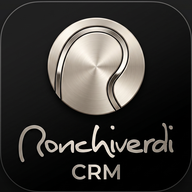
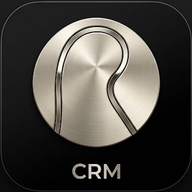
Nuova icona dell'app sulla Home, rigenerabile da script
Il logo cambia: resta il disco metallico, sparisce il lettering
"Ronchiverdi" e sotto il disco resta la sola scritta CRM, su un riquadro
nero con più aria intorno.

Le quattro misure servite nascono dal nuovo master ritagliato sul riquadro
dell'icona: il margine della tavola, dentro la maschera arrotondata di iOS,
diventerebbe un secondo bordo e rimpicciolirebbe il disco. La maskable
tiene il contenuto al 78% perché Android ritaglia in tondo, e a piena
pagina la scritta CRM finirebbe sul bordo del cerchio — verificato che ora
resti dentro la zona sicura con 35 px di margine.

Il ritaglio non è più a mano: scripts/genera-icone.py trova il riquadro
dal salto di luminosità del bordo, scrive i quattro file e ricava il fondo
della maskable dalla striscia scura del margine, non dalla media
dell'immagine — che avrebbe portato dentro il disco metallico e reso il
fondo a bande. Chi cambierà di nuovo l'icona sostituisce il master e
rilancia lo script, invece di ritagliare quattro PNG a occhio.

Il master del logo precedente esce da design/: tenerne due significa, alla
prossima rigenerazione, ritagliare quello sbagliato. Resta nella storia
del repository, al commit ecb1dfa.

Claude-Session: https://claude.ai/code/session_01UDy9jfDg8AQYpr8QYMmQez

diff --git a/app/manifest.ts b/app/manifest.ts
@@ -20,9 +20,10 @@ export default function manifest(): MetadataRoute.Manifest {
     orientation: 'portrait',
     background_color: '#f6f4ec',
     theme_color: '#1c1c18',
-    // Ritagliate da design/icona-crm-2048.jpeg con lo script di quel commit:
-    // la variante maskable è rimpicciolita perché Android ritaglia in tondo e
-    // taglierebbe la scritta "Ronchiverdi CRM".
+    // Ritagliate da design/icona-crm.jpeg con scripts/genera-icone.py: la
+    // variante maskable è rimpicciolita perché Android ritaglia in tondo e
+    // taglierebbe la scritta "CRM". Per cambiare icona si sostituisce il
+    // master e si rilancia lo script, non si ritocca un file di public/.
     icons: [
       {
         src: '/apple-touch-icon.png',

diff --git a/scripts/genera-icone.py b/scripts/genera-icone.py
@@ -1,0 +1,119 @@
+#!/usr/bin/env python3
+"""Rigenera le icone dell'app da design/icona-crm.jpeg.
+
+    pip install Pillow
+    python3 scripts/genera-icone.py
+
+Il master è la tavola dell'icona così com'è stata disegnata: il riquadro nero
+arrotondato su uno sfondo di presentazione, appena più scuro. Lo script ritaglia
+il riquadro e butta via lo sfondo — dentro la maschera arrotondata di iOS quel
+margine diventerebbe un secondo bordo intorno all'icona, e il disco finirebbe
+più piccolo del necessario.
+
+Da qui escono i quattro file dichiarati in app/manifest.ts:
+
+  apple-touch-icon.png   180  l'icona che iOS salva sulla Home
+  icon-192.png           192  Android e la scheda del browser
+  favicon.png            512  manifest e scheda del browser
+  icon-maskable-512.png  512  Android, che ritaglia dentro un cerchio
+
+La maskable è l'unica trattata a parte: Android ritaglia le icone maskable in
+un cerchio inscritto, e a piena pagina la scritta "CRM" in basso ci finirebbe
+fuori. Il contenuto viene quindi rimpicciolito dentro la zona sicura, su un
+fondo che continua la sfumatura del riquadro invece di tagliarlo di netto.
+"""
+
+from pathlib import Path
+
+from PIL import Image
+
+RADICE = Path(__file__).resolve().parent.parent
+MASTER = RADICE / "design" / "icona-crm.jpeg"
+PUBLIC = RADICE / "public"
+
+# Quota del lato occupata dal contenuto nella versione maskable. Android
+# garantisce solo il cerchio inscritto nell'80% centrale: sotto quella soglia
+# la scritta "CRM" resta dentro anche sui lanciatori che ritagliano di più.
+QUOTA_MASKABLE = 0.78
+
+# Salto di luminosità che segna il bordo chiaro del riquadro rispetto allo
+# sfondo della tavola: il ritaglio si cerca da solo, così un master ridisegnato
+# con margini diversi non costringe a rimisurare a mano.
+SALTO_BORDO = 20
+
+
+def bordi(immagine: Image.Image) -> tuple[int, int, int, int]:
+    """Riquadro dell'icona dentro la tavola, come (sinistra, alto, destra, basso)."""
+    grigi = immagine.convert("L")
+    larghezza, altezza = grigi.size
+    px = grigi.load()
+
+    def primo_salto(valori: list[int]) -> int:
+        for i in range(1, len(valori)):
+            if valori[i] - valori[i - 1] >= SALTO_BORDO:
+                return i - 1
+        raise SystemExit("Bordo del riquadro non trovato: il master non ha la cornice attesa.")
+
+    riga = [px[x, altezza // 2] for x in range(larghezza)]
+    colonna = [px[larghezza // 2, y] for y in range(altezza)]
+
+    sinistra = primo_salto(riga)
+    destra = larghezza - 1 - primo_salto(riga[::-1])
+    alto = primo_salto(colonna)
+    basso = altezza - 1 - primo_salto(colonna[::-1])
+    return sinistra, alto, destra, basso
+
+
+def quadra(riquadro: tuple[int, int, int, int], limite: tuple[int, int]) -> tuple[int, int, int, int]:
+    """Allarga il riquadro al quadrato che lo contiene, restando dentro la tavola."""
+    sinistra, alto, destra, basso = riquadro
+    lato = max(destra - sinistra, basso - alto)
+    cx, cy = (sinistra + destra) / 2, (alto + basso) / 2
+    mezzo = lato / 2
+    x0 = max(0, min(round(cx - mezzo), limite[0] - lato))
+    y0 = max(0, min(round(cy - mezzo), limite[1] - lato))
+    return x0, y0, x0 + lato, y0 + lato
+
+
+def sfumatura(icona: Image.Image, lato: int) -> Image.Image:
+    """Fondo della maskable: la stessa sfumatura verticale del riquadro, estesa.
+
+    Un fondo nero piatto stacca sul riquadro, che verso il basso schiarisce
+    appena: sul cerchio ritagliato da Android il salto si vedrebbe.
+
+    Il campione si prende da una striscia del margine sinistro, dove c'è solo
+    il nero del riquadro. Mediando l'immagine intera il disco metallico
+    entrerebbe nella media e il fondo uscirebbe a bande chiare.
+    """
+    larghezza, altezza = icona.size
+    striscia = icona.crop((round(larghezza * 0.02), 0, round(larghezza * 0.08), altezza))
+    return striscia.resize((1, lato), Image.LANCZOS).resize((lato, lato), Image.NEAREST)
+
+
+def main() -> None:
+    if not MASTER.exists():
+        raise SystemExit(f"Master mancante: {MASTER}")
+
+    tavola = Image.open(MASTER).convert("RGB")
+    riquadro = quadra(bordi(tavola), tavola.size)
+    icona = tavola.crop(riquadro)
+    print(f"Master {tavola.size[0]}x{tavola.size[1]} → riquadro {riquadro}, lato {icona.size[0]}px")
+
+    piena = icona.resize((512, 512), Image.LANCZOS)
+    for nome, lato in [("favicon.png", 512), ("icon-192.png", 192), ("apple-touch-icon.png", 180)]:
+        (piena if lato == 512 else icona.resize((lato, lato), Image.LANCZOS)).save(
+            PUBLIC / nome, "PNG", optimize=True
+        )
+        print(f"  {nome} {lato}x{lato}")
+
+    lato_contenuto = round(512 * QUOTA_MASKABLE)
+    maskable = sfumatura(piena, 512)
+    contenuto = icona.resize((lato_contenuto, lato_contenuto), Image.LANCZOS)
+    scarto = (512 - lato_contenuto) // 2
+    maskable.paste(contenuto, (scarto, scarto))
+    maskable.save(PUBLIC / "icon-maskable-512.png", "PNG", optimize=True)
+    print(f"  icon-maskable-512.png 512x512 (contenuto al {round(QUOTA_MASKABLE * 100)}%)")
+
+
+if __name__ == "__main__":
+    main()

diff --git a/README.md b/README.md
@@ -107,6 +107,28 @@ La tabella (`scripts/sql/2026-09-05-voucher.sql`) non parla di medicina: la
 colonna `tipo` distingue il benefit, così lo stesso motore serve il prossimo
 — merchandising, ingressi omaggio — senza una tabella nuova.
 
+## Icona sulla Home
+
+Il pannello si usa dal telefono come app installata ("Aggiungi a Home"), quindi
+l'icona è un asset di prodotto, non un favicon. Il master è
+`design/icona-crm.jpeg` — la tavola dell'icona così com'è disegnata, riquadro su
+sfondo di presentazione — e le misure servite si rigenerano da lì:
+
+```bash
+pip install Pillow
+python3 scripts/genera-icone.py
+```
+
+Lo script ritaglia il riquadro (lo sfondo della tavola, dentro la maschera
+arrotondata di iOS, diventerebbe un secondo bordo) e scrive i quattro file
+dichiarati in `app/manifest.ts`: `apple-touch-icon.png` 180, `icon-192.png`,
+`favicon.png` 512 e `icon-maskable-512.png`, quest'ultima col contenuto al 78%
+perché Android ritaglia le maskable dentro un cerchio e a piena pagina taglierebbe
+la scritta "CRM".
+
+Per cambiare icona si sostituisce il master e si rilancia lo script: i file di
+`public/` non si ritoccano a mano, o la prossima rigenerazione li sovrascrive.
+
 ## Stato
 
 Fatto: autenticazione, invito e primo accesso, permessi granulari, guscio del
